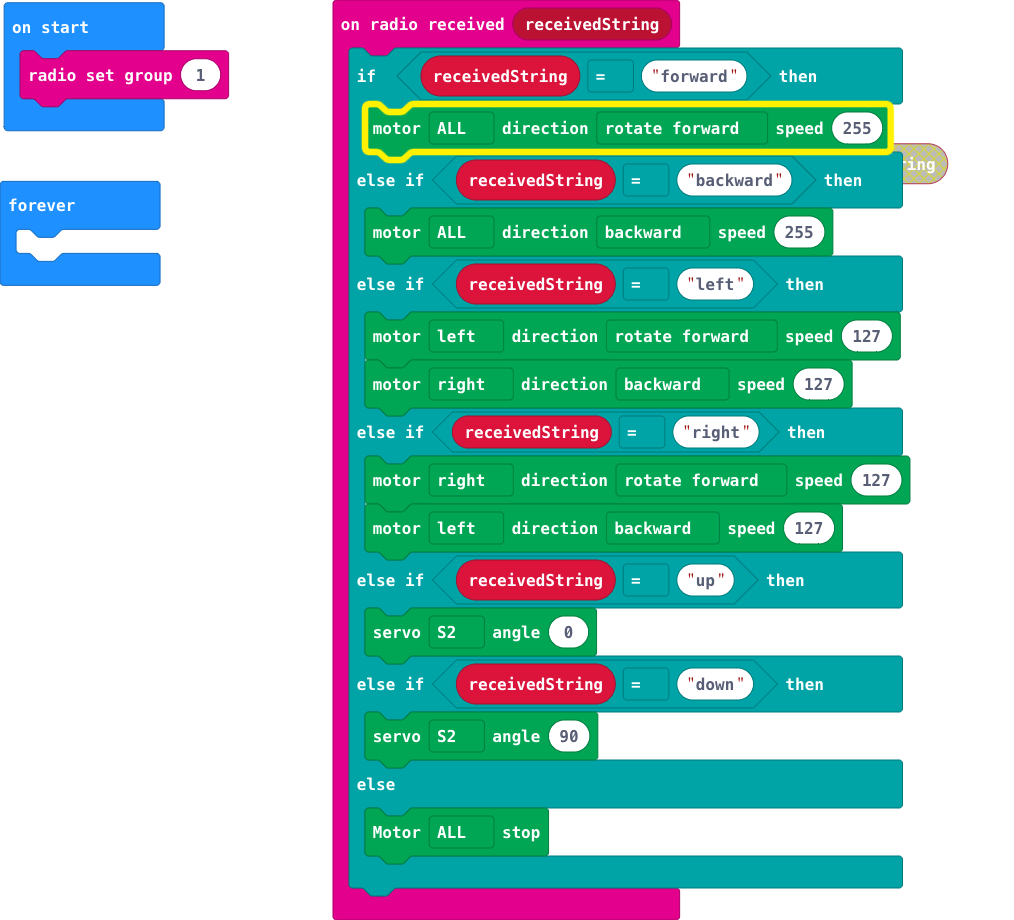
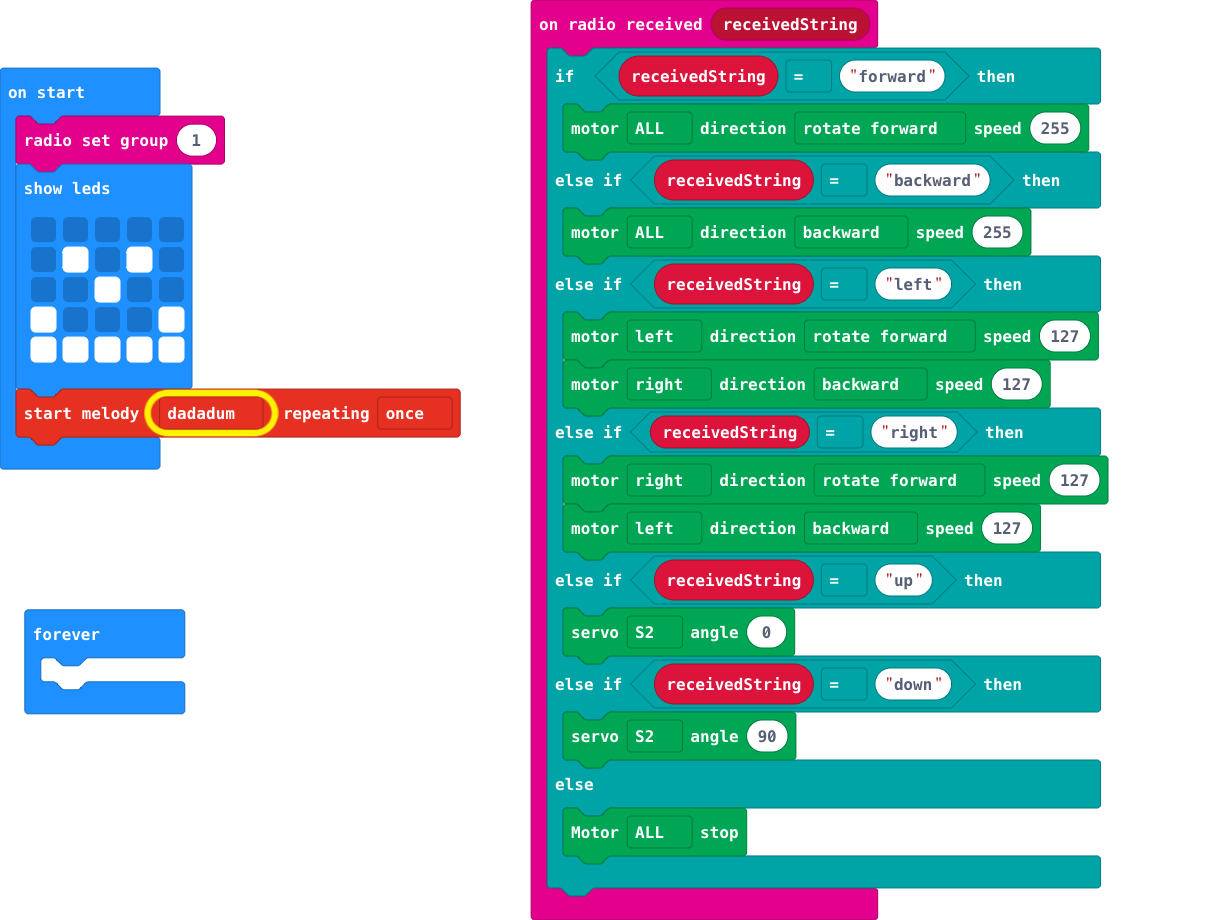
Update main.blocks, main.ts

diff --git a/main.ts b/main.ts
@@ -18,6 +18,14 @@ radio.onReceivedString(function (receivedString) {
     }
 })
 radio.setGroup(1)
+basic.showLeds(`
+    . . . . .
+    . # . # .
+    . . # . .
+    # . . . #
+    # # # # #
+    `)
+music.startMelody(music.builtInMelody(Melodies.Dadadadum), MelodyOptions.Once)
 basic.forever(function () {
 	
 })
